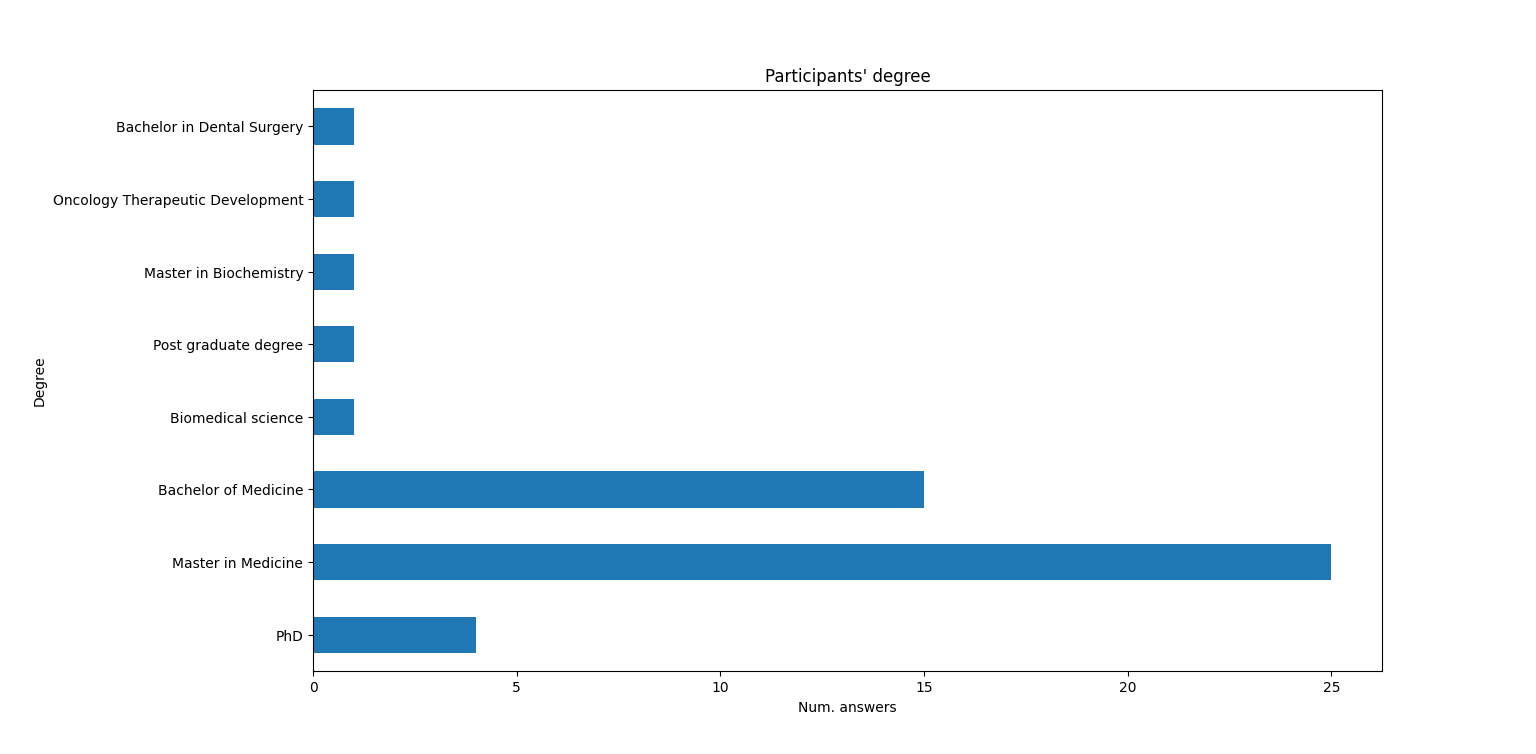
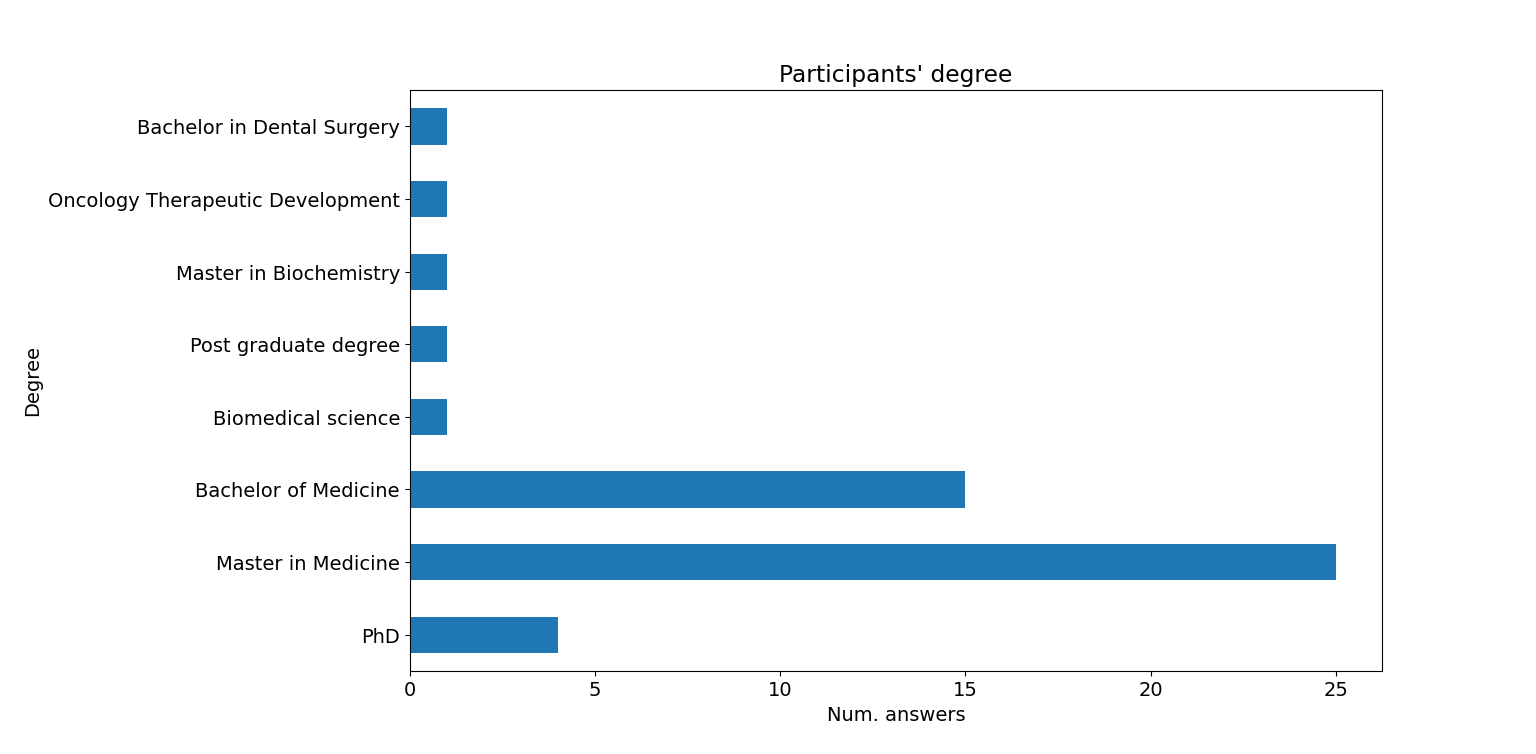
Upgrade font-size of box_plot_horizontal

diff --git a/Scripts/SurveyAnalysis.py b/Scripts/SurveyAnalysis.py
@@ -6,6 +6,7 @@ from wordcloud import WordCloud
 #Performe a box plot of its input
 def box_plot(data, x_label, y_label, title, image_name):
     data.plot(kind='bar')
+    plt.rcParams.update({'font.size': 10})
     plt.xlabel(x_label)
     plt.ylabel(y_label)
     plt.title(title)
@@ -38,7 +39,8 @@ def box_plot_horizzontal(answers, x_label, y_label, title):
                 data[issue_str] = 1
     
     to_plot = pd.Series(data)
-
+    #Set font size to 14
+    plt.rcParams.update({'font.size': 14})
     plt.figure(figsize=(10, 8))
     to_plot.plot(kind='barh')
     plt.xlabel(x_label)
@@ -73,7 +75,7 @@ def cluster_plot(to_plot, title,image_name):
 
     #Define the cluster plot
     wordcloud = WordCloud(width=800, height=400, background_color='white').generate_from_frequencies(data)
-
+    plt.rcParams.update({'font.size': 10})
     plt.figure(figsize=(10, 5))
     plt.imshow(wordcloud, interpolation='bilinear')
     plt.axis('off')
@@ -113,7 +115,7 @@ def job_experience_analysis(csv_file):
     
     num_rows = csv_file.shape[0]-1 #Get the number of csv rows (-1 to remove the string value)
     print("The mean job experience is: ",sum/num_rows)
-
+    plt.rcParams.update({'font.size': 10})
     # Calculate the counts of each job experience value
     experience_counts = pd.Series(job_experience).value_counts()
     sorted_experience_counts=experience_counts.sort_index()
@@ -151,12 +153,12 @@ def diagnosis_reliability_both(csv_file):
 
 def dermoscopic_problems(csv_file):
     answers = csv_file["What are the problems that can be encountered when acquiring a dermoscopic image?"]
-    box_plot_horizzontal(answers, "Num. Answers", "Problems", "Problem when acquiring a dermoscopic image")
+    box_plot_horizzontal(answers, "Num. Answers", "Problems", "Problems when acquiring a dermoscopic image")
 
 def histological_problems(csv_file):
     answers = csv_file["What are the problems that can be encountered when acquiring a histological image?"]
     answers = answers.dropna()
-    box_plot_horizzontal(answers, "Num. Answers", "Problems", "Problem when acquiring a histological image")
+    box_plot_horizzontal(answers, "Num. Answers", "Problems", "Problems when acquiring a histological image")
 
 def useful_metrics(csv_file):
     answers = csv_file["What are the useful metrics to evaluate a dermoscopic image quality?"] #select only the rows with a no empty value
